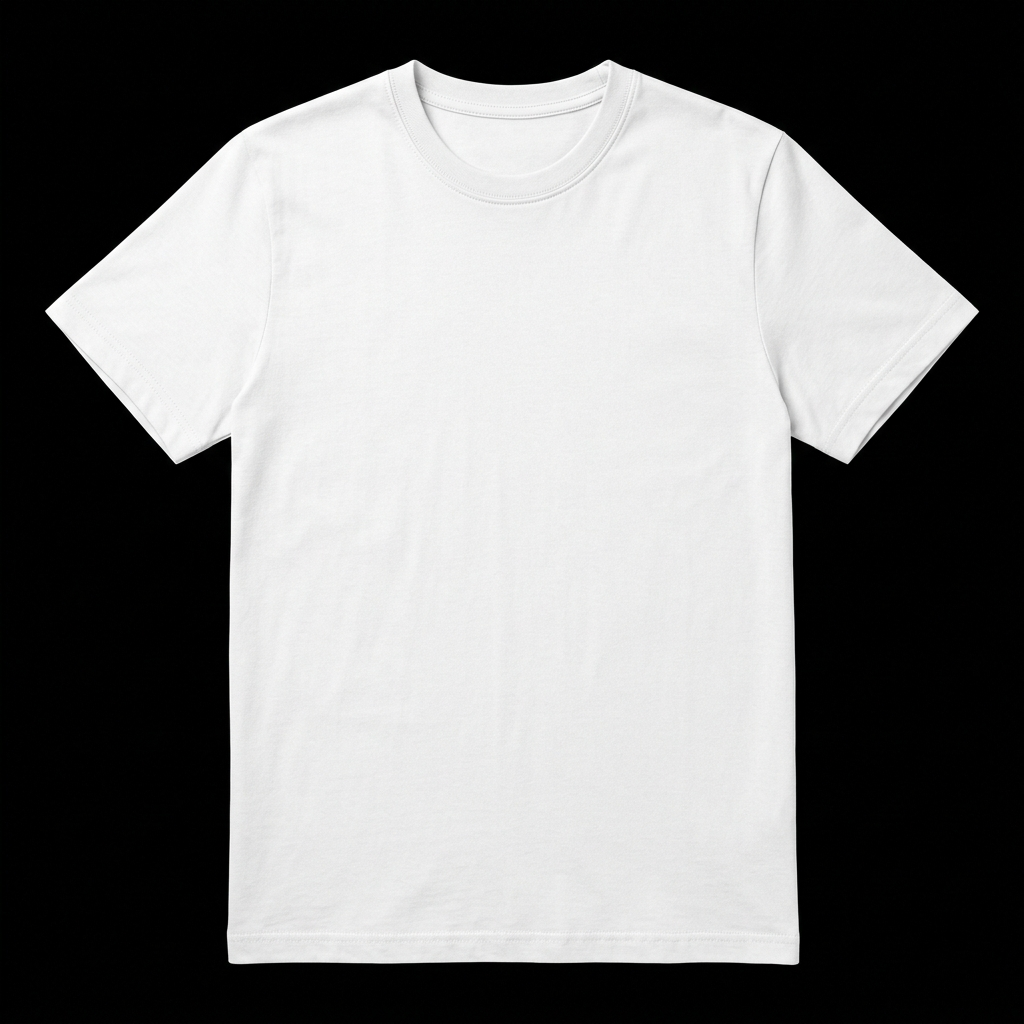
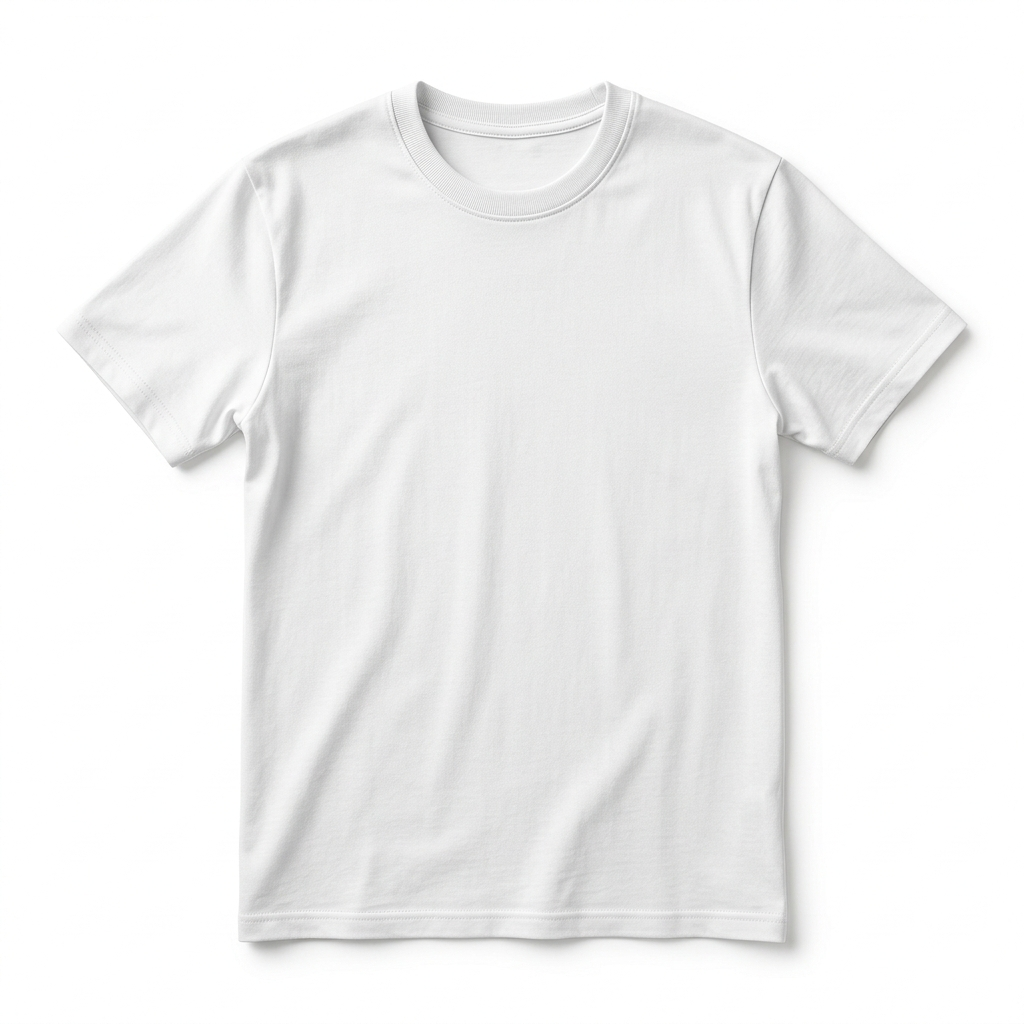
fix(configurator): restaurar fotografias de playera, polo y camisa en alta definicion

diff --git a/components/Configurator.tsx b/components/Configurator.tsx
@@ -23,7 +23,7 @@ const PRENDAS: Record<Prenda, PrendaConfig> = {
   polo: {
     nombre: 'POLO PIQUÉ EJECUTIVA',
     subtitulo: 'Tejido de punto 100% mexicano · Cuello y puños tejidos',
-    frenteImg: '/images/configurator/polo_front.jpg',
+    frenteImg: '/images/configurator/polo_front.png',
     espaldaImg: '/images/configurator/polo_back.jpg',
     posicionesFrente: [
       { id: 'pecho_izq', label: 'Pecho Izquierdo', x: 63, y: 34, maxW: 90 },
@@ -140,7 +140,7 @@ export default function Configurator() {
     reader.readAsDataURL(file);
   };
 
-  // Renderizado dinámico en Canvas para coloreado fotorrealista 100% parejo y sin manchas
+  // Renderizado dinámico en Canvas
   useEffect(() => {
     const cvs = canvasRef.current;
     if (!cvs) return;
@@ -157,53 +157,38 @@ export default function Configurator() {
       cvs.height = img.naturalHeight;
       ctx.clearRect(0, 0, cvs.width, cvs.height);
 
-      const w = cvs.width;
-      const h = cvs.height;
-
-      // Dibujar imagen original base
+      // Dibujar imagen fotográfica base
       ctx.drawImage(img, 0, 0);
 
+      // Si es blanco clásico, conservar 100% la foto original sin modificar
+      if (!colorOption.rgb) {
+        setIsProcessingCanvas(false);
+        return;
+      }
+
+      // Si es otro color, aplicar tinte suave respetando sombras y textura
+      const w = cvs.width;
+      const h = cvs.height;
       const imgData = ctx.getImageData(0, 0, w, h);
       const data = imgData.data;
-      const targetRGB = colorOption.rgb;
+      const [tr, tg, tb] = colorOption.rgb;
 
       for (let i = 0; i < data.length; i += 4) {
         const r = data[i];
         const g = data[i + 1];
         const b = data[i + 2];
+        const a = data[i + 3];
 
-        // Luminancia para separar fondo del cuerpo completo de la prenda
-        const L_raw = 0.299 * r + 0.587 * g + 0.114 * b;
+        if (a === 0) continue;
 
-        if (L_raw < 28) {
-          // Fondo 100% limpio y transparente
-          data[i + 3] = 0;
-        } else {
-          // Suavizado en bordes externos (antialiasing)
-          if (L_raw < 55) {
-            data[i + 3] = Math.round(((L_raw - 28) / 27) * 255);
-          } else {
-            data[i + 3] = 255;
-          }
+        const brightness = 0.299 * r + 0.587 * g + 0.114 * b;
 
-          // Luminancia normalizada del tejido textil (rescalado 28..255 a 0..1)
-          const normL = Math.max(0, Math.min(1, (L_raw - 28) / 227));
-
-          if (!targetRGB) {
-            // Blanco Clásico: textura blanca natural con sombras suaves y realistas
-            const whiteVal = Math.round(212 + 43 * normL);
-            data[i]     = whiteVal;
-            data[i + 1] = whiteVal;
-            data[i + 2] = whiteVal;
-          } else {
-            // Color corporativo: 100% parejo, sin manchas, sin sobre-saturación
-            const [tr, tg, tb] = targetRGB;
-            const tone = Math.pow(normL, 1.02);
-
-            data[i]     = Math.min(255, Math.max(0, Math.round(tr * tone)));
-            data[i + 1] = Math.min(255, Math.max(0, Math.round(tg * tone)));
-            data[i + 2] = Math.min(255, Math.max(0, Math.round(tb * tone)));
-          }
+        // Solo colorear si no es fondo blanco exterior puro
+        if (brightness < 248) {
+          const factor = brightness / 255;
+          data[i] = Math.min(255, Math.round(tr * factor * 1.05));
+          data[i + 1] = Math.min(255, Math.round(tg * factor * 1.05));
+          data[i + 2] = Math.min(255, Math.round(tb * factor * 1.05));
         }
       }
 
